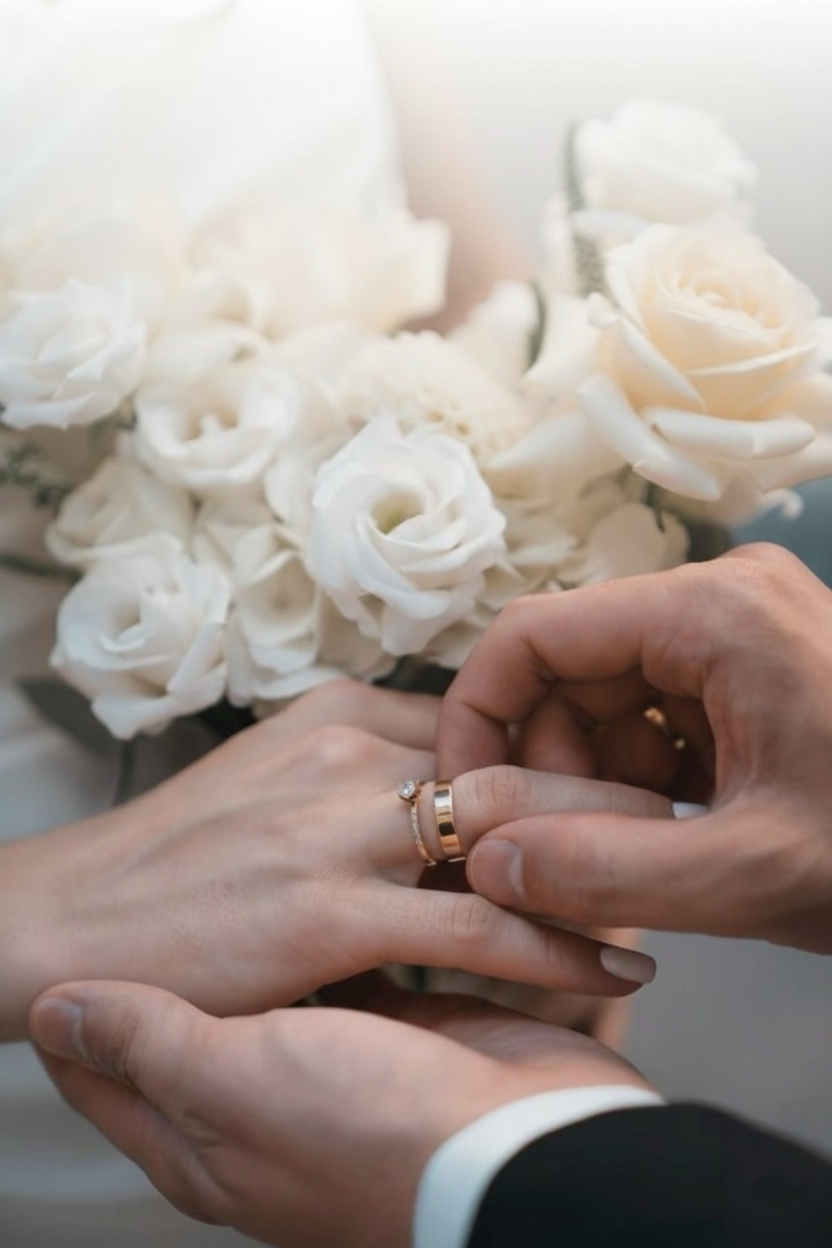
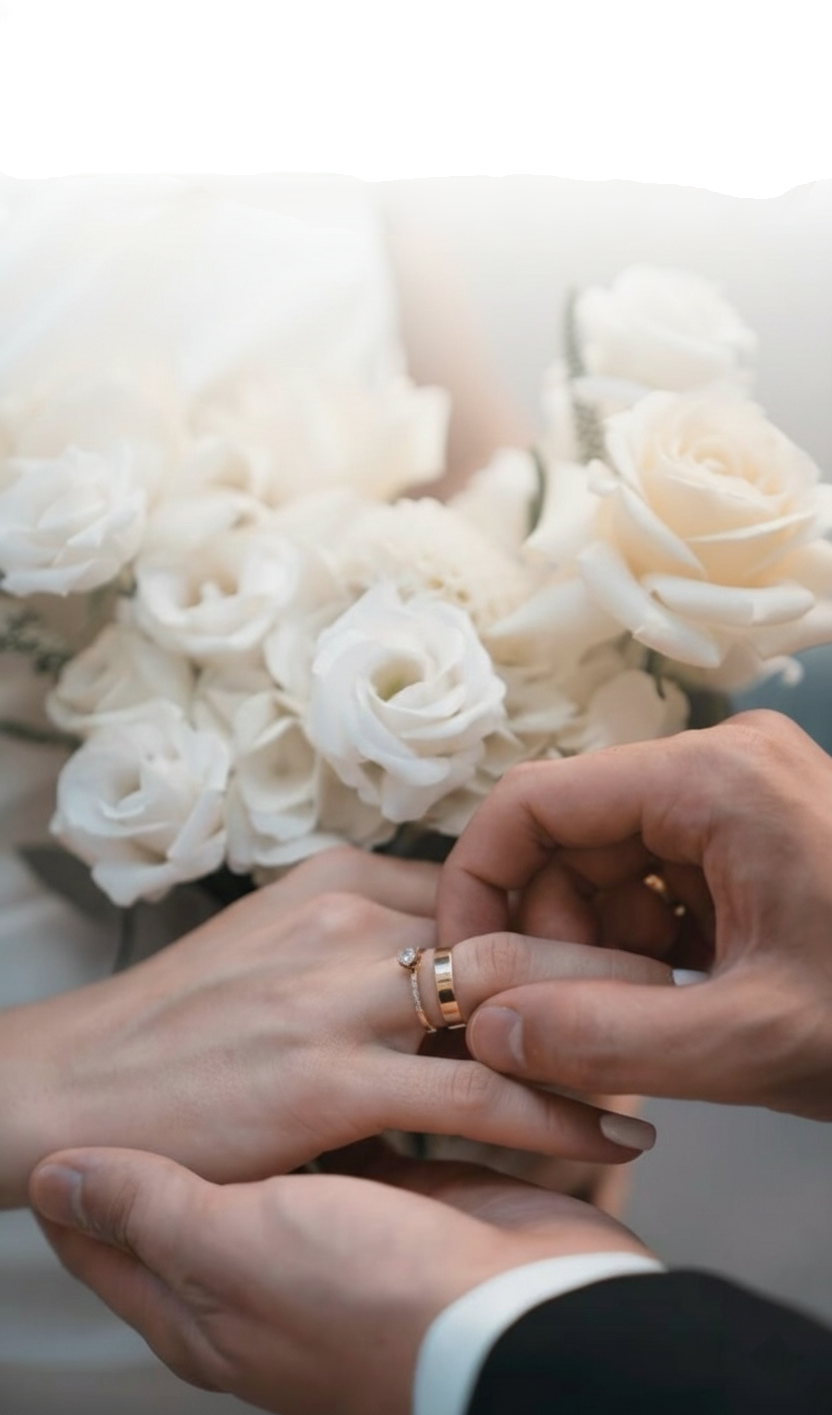
fix photo height and position

diff --git a/styles.css b/styles.css
@@ -10,12 +10,12 @@ body {
 .text_3_container {
     position: relative;
     max-width: 600px;
-    margin: 40px auto;
-    padding: 20px;
+    margin: 20px auto;
+    padding: 5px;
 }
 
 .text_3 {
-    padding: 30px;
+    padding: 15px;
     z-index: 2;
     position: relative;
 }
@@ -23,9 +23,9 @@ body {
 /* Сол жақ жоғарғы бұрыш */
 .decor-left {
     position: absolute;
-    top: 10px;
-    left: 20px;
-    width: 100px;
+    top: -70px;
+    left: -50px;
+    width: 200px !important;
     z-index: 0;
     opacity: 0.8;
 }
@@ -33,9 +33,9 @@ body {
 /* Оң жақ төменгі бұрыш */
 .decor-right {
     position: absolute;
-    bottom: 20px;
-    right: 30px;
-    width: 100px;
+    bottom: -20px;
+    right: -25px;
+    width: 200px !important;
     z-index: 1;
     opacity: 0.8;
 }
@@ -110,7 +110,7 @@ body {
     right: 14.5px;
     position: relative;
     width: 107%;
-    height: 100vh; /* Экранның 100% биіктігі */
+    height: 130vh; /* Экранның 100% биіктігі */
     overflow: hidden;
 }
 
@@ -125,8 +125,8 @@ body {
 /* Фотоның үстін сәл қараңғылау (текст оқылу үшін) */
 .hero-overlay {
     position: absolute;
-    top: 20;
-    left: 0;
+    top: 40;
+    left: 40;
     width: 100%;
     height: 100%;
     background: rgba(0, 0, 0, 0.2); /* 20% қараңғылау */
@@ -140,7 +140,7 @@ body {
     transform: translate(-50%, -50%); /* Ортаға дәл орналастыру */
     text-align: center;
     color: #213813;
-    margin-top: 20px;
+    margin-top: 60px;
     width: 100%;
     z-index: 5;
     text-shadow: 2px 2px 10px rgba(0, 0, 0, 0.5); /* Мәтінге көлеңке */

diff --git a/index.html b/index.html
@@ -12,12 +12,11 @@
     <div class="content">
         <div class="container text-center">
             <div class="hero-section" data-aos="fade">
-                <div class="hero-image-container">
-                    <img src="photo/background.png" alt="Wedding Photo" class="hero-image">
-                    <div class="hero-overlay"></div> <div class="hero-text" data-aos="fade-up" data-aos-delay="500">
-                        <h1>Мағжан & Аяжан</h1>
-                        <p>Тойға шақыру</p>
-                    </div>
+                <img src="photo/background.png" alt="Wedding Photo" class="hero-image">
+                <div class="hero-overlay"></div> 
+                <div class="hero-text" data-aos="fade-up" data-aos-delay="500">
+                    <h1>Мағжан & Аяжан</h1>
+                    <p>Тойға шақыру</p>
                 </div>
             </div>
 
